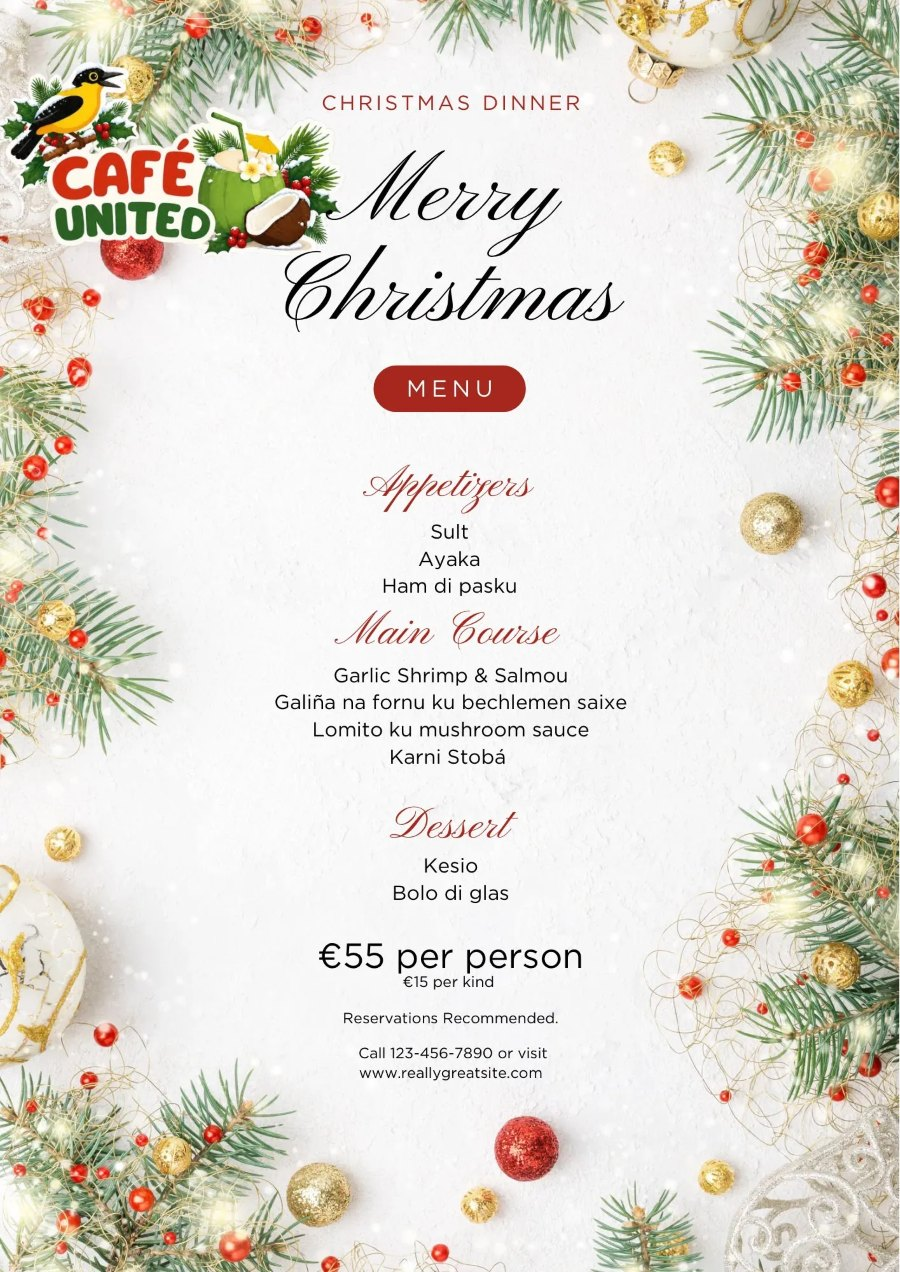
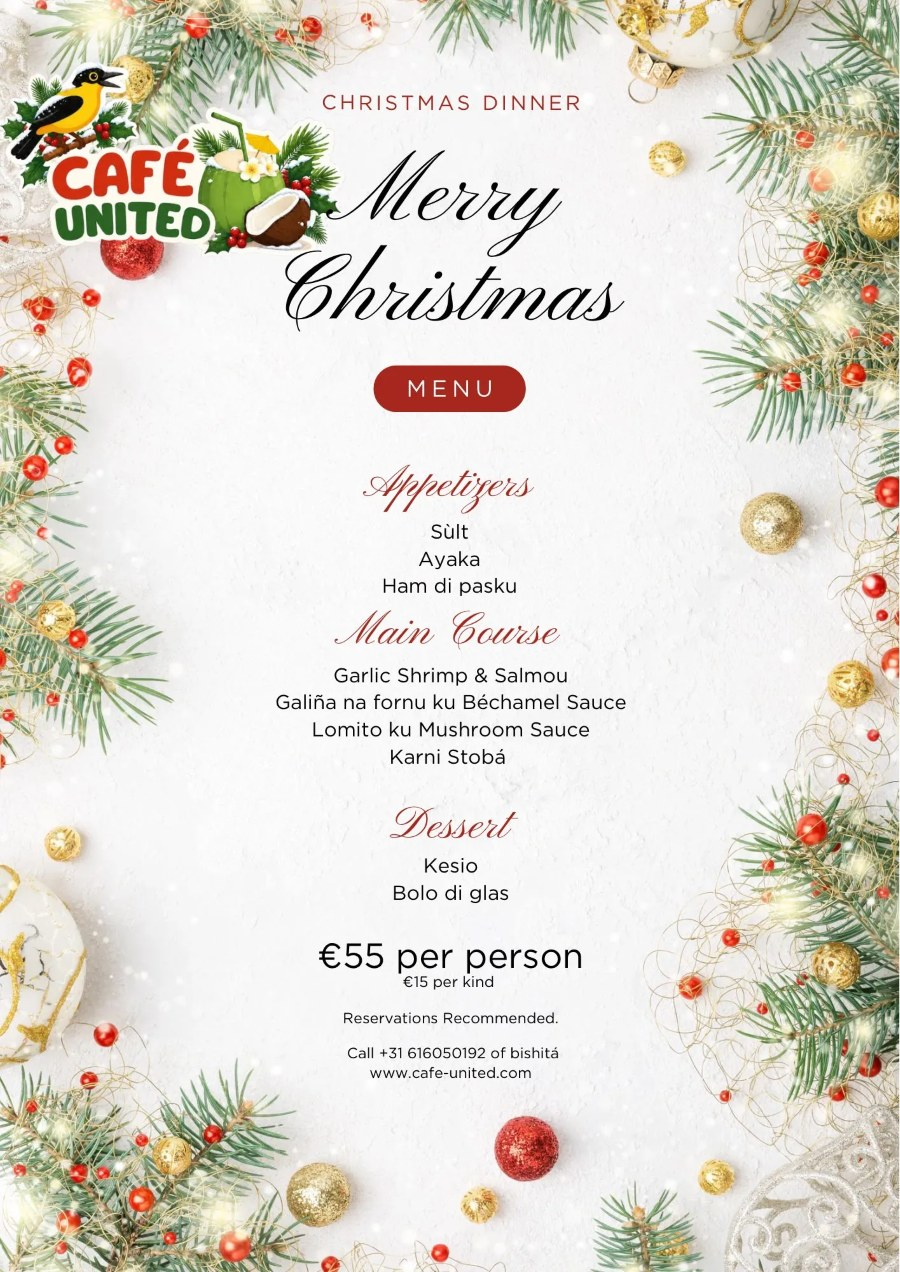
Nieuwe Papiamentse kerstkaart voor 25 en 26 december
De oude kaart had nog de voorbeeldregels van het sjabloon erop staan.
Deze heeft het echte telefoonnummer en webadres. Spelling van de
omschrijving ernaast gelijkgetrokken met de kaart.

Changed region(s): [[0.3422, 0.5212, 0.6844, 0.5825], [0.4044, 0.8278, 0.6222, 0.8585], [0.3111, 0.2146, 0.3733, 0.2453]]

diff --git a/assets/js/kerst-reservering.js b/assets/js/kerst-reservering.js
@@ -80,8 +80,8 @@
             kaart: 'assets/img/kerstmenu.jpg'
           },
           pap: {
-            tekst: 'Promé plato: sult, ayaka i ham di pasku. Plato prinsipal (skohe ùn): ' +
-                   'garlic shrimp & salmon, galiña na fornu ku bechamel saixe, ' +
+            tekst: 'Promé plato: sùlt, ayaka i ham di pasku. Plato prinsipal (skohe ùn): ' +
+                   'garlic shrimp & salmon, galiña na fornu ku béchamel sauce, ' +
                    'lomito ku mushroom sauce of karni stobá. Dèsert: kesio of bolo di glas.',
             kaart: 'assets/img/kerstmenu-pap.jpg'
           }
